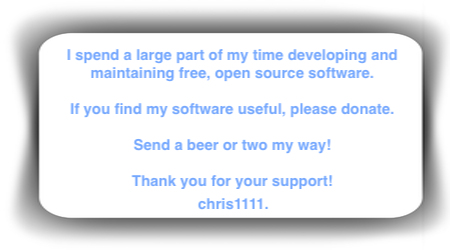
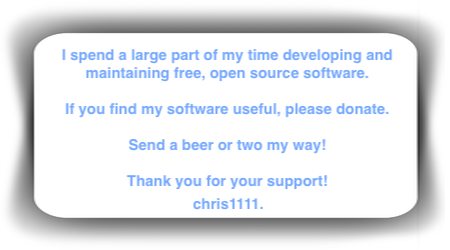
Use src image

diff --git a/index.html b/index.html
@@ -1014,7 +1014,7 @@
           </script>
           <br><br><br><br><br><br>
           <div align="center">
-          <img src="https://user-images.githubusercontent.com/6248794/218334315-6d81f904-a5ab-45de-87d7-d1ea842fa782.png" alt="Support Donate" style="width:20%;">
+          <img src="PICS/GlassSupport.png" alt="Support Donate" style="width:20%;">
                   </strong><right><br><strong></strong><form style="" target="_top" method="post" action="https://www.paypal.com/cgi-bin/webscr"><input value="_donations" name="cmd" type="hidden" /><input value="leblond1111@gmail.com" name="business" type="hidden" /><input value="EN" name="lc" type="hidden" /><input value="chris1111 Github" name="item_name" type="hidden" /><input value="0" name="no_note" type="hidden" /><input value="EUR" name="currency_code" type="hidden" /><input value="PP-DonationsBF:don13.png:NonHostedGuest" name="bn" type="hidden" /><input alt="PayPal - The simplest and most secure online payment solution!" name="submit" border="0" src="https://user-images.githubusercontent.com/6248794/150708009-1d926503-368d-4321-8f7a-903291a225a2.png" type="image" /><img style="width: 1px; height: 1px;" src="https://www.paypalobjects.com/fr_FR/i/scr/pixel.gif" border="0" alt="" /></form><strong>
           </form>
           </div>
